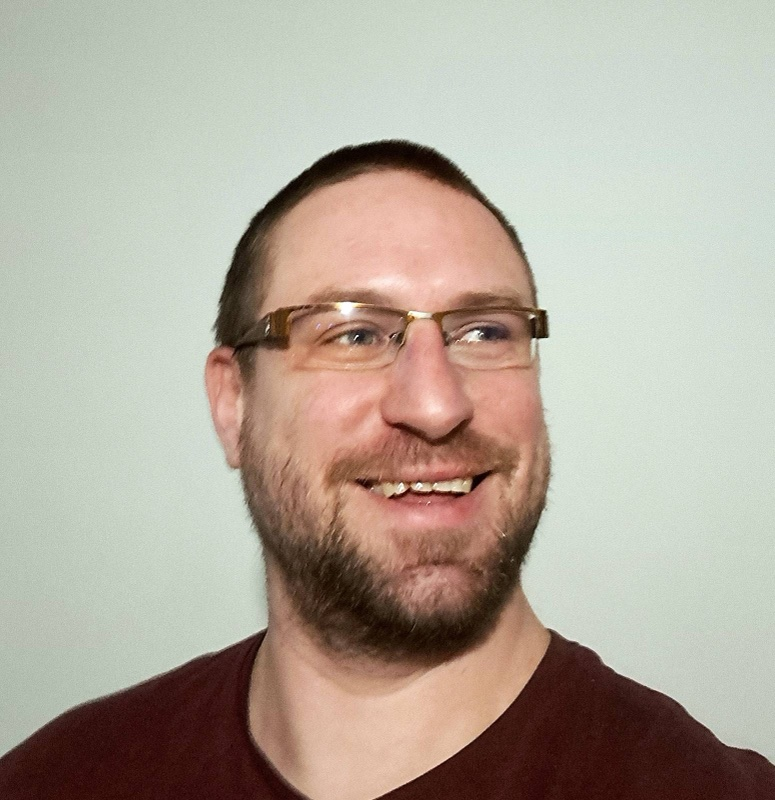
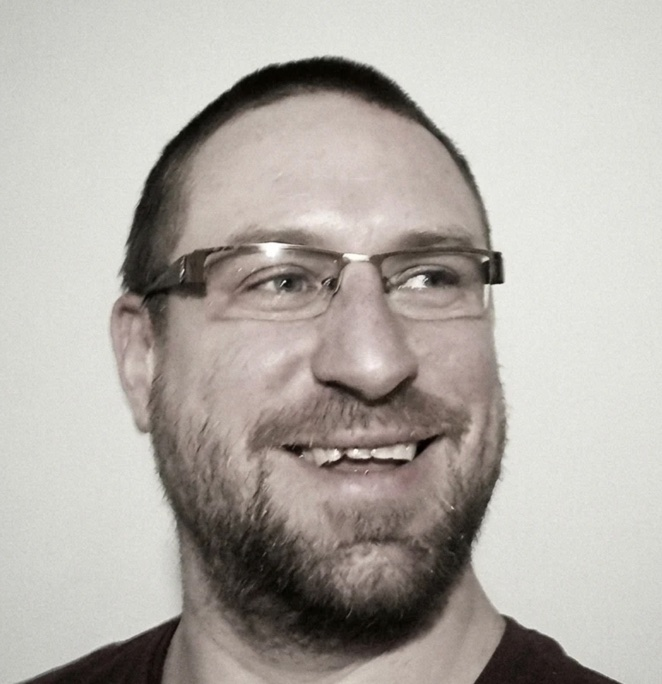
simplify 2027 page styles and update speaker portraits
- replace orange gradient with solid --primary
- add generic font fallbacks, remove unused styles, move inline styles to CSS
- drop "Blok XX" prefixes from section eyebrows, reduce section bottom padding
- update portraits of Kacetl, Kohout, Sýkora

diff --git a/index2027.html b/index2027.html
@@ -27,15 +27,12 @@
             --muted-fg: oklch(0.72 0.03 75);
             --primary: #fe7802; /* = oklch(0.72 0.19 50) oříznuté do sRGB, aby vyšlo stejně i na P3 displejích */
             --primary-fg: oklch(0.14 0.012 55);
-            --primary-glow: #fea92f; /* = oklch(0.8 0.16 70) v sRGB */
             --border: oklch(0.95 0.025 85 / 13%);
 
             --font-display: "Big Shoulders Display", Impact, "Arial Narrow", sans-serif;
             --font-sans: "Schibsted Grotesk", ui-sans-serif, system-ui, sans-serif;
             --font-mono: "JetBrains Mono", ui-monospace, monospace;
 
-            --gradient-orange: linear-gradient(120deg, var(--primary), var(--primary-glow));
-            --shadow-glow: 0 20px 60px -20px color-mix(in oklab, var(--primary) 60%, transparent);
             --container: 80rem;
             --gutter: 1.25rem;
 
@@ -53,7 +50,7 @@
         body {
             background: var(--stout);
             color: var(--foam);
-            font-family: var(--font-sans);
+            font-family: var(--font-sans), sans-serif;
             font-size: 1rem;
             line-height: 1.6;
             -webkit-font-smoothing: antialiased;
@@ -73,7 +70,7 @@
 
         /* --- typografie --- */
         .display {
-            font-family: var(--font-display);
+            font-family: var(--font-display), sans-serif;
             font-weight: 900;
             text-transform: uppercase;
             letter-spacing: -0.01em;
@@ -81,7 +78,7 @@
         }
 
         .eyebrow, .mono {
-            font-family: var(--font-mono);
+            font-family: var(--font-mono), monospace;
             font-size: 0.75rem;
             letter-spacing: 0.18em;
             text-transform: uppercase;
@@ -90,15 +87,7 @@
         .eyebrow { color: var(--primary); }
         .mono { color: var(--muted-fg); }
 
-        .text-gradient {
-            background-image: var(--gradient-orange);
-            -webkit-background-clip: text;
-            background-clip: text;
-            color: transparent;
-        }
-
         .text-primary { color: var(--primary); }
-        .lead { font-size: 1.125rem; color: var(--muted-fg); }
 
         h2.display { font-size: clamp(3rem, 7vw, 4.5rem); margin-top: 1.25rem; }
 
@@ -107,7 +96,7 @@
             display: inline-flex;
             align-items: center;
             gap: 0.5rem;
-            font-family: var(--font-mono);
+            font-family: var(--font-mono), monospace;
             font-size: 0.8rem;
             font-weight: 500;
             letter-spacing: 0.14em;
@@ -121,9 +110,8 @@
         .btn:hover svg { transform: translateX(3px); }
 
         .btn--hero {
-            background-image: var(--gradient-orange);
+            background-color: var(--primary);
             color: var(--primary-fg);
-            box-shadow: var(--shadow-glow);
         }
 
         .btn--hero:hover { transform: translateY(-2px); }
@@ -145,7 +133,7 @@
             border-bottom: 1px solid var(--border);
             padding-block: 0.5rem;
             text-align: center;
-            font-family: var(--font-mono);
+            font-family: var(--font-mono), monospace;
             font-size: 0.68rem;
             letter-spacing: 0.16em;
             text-transform: uppercase;
@@ -181,9 +169,9 @@
             width: 2rem;
             height: 2rem;
             border-radius: 50%;
-            background-image: var(--gradient-orange);
+            background-color: var(--primary);
             color: var(--primary-fg);
-            font-family: var(--font-display);
+            font-family: var(--font-display), sans-serif;
             font-weight: 900;
             font-size: 1.125rem;
         }
@@ -193,7 +181,7 @@
         .site-nav { display: flex; align-items: center; gap: 2rem; }
 
         .site-nav a:not(.btn) {
-            font-family: var(--font-mono);
+            font-family: var(--font-mono), monospace;
             font-size: 0.75rem;
             letter-spacing: 0.16em;
             text-transform: uppercase;
@@ -255,7 +243,7 @@
             .site-nav a:not(.btn) {
                 padding-block: 0.9rem;
                 border-bottom: 1px solid var(--border);
-                font-family: var(--font-display);
+                font-family: var(--font-display), sans-serif;
                 font-weight: 900;
                 font-size: 2.25rem;
                 line-height: 1;
@@ -273,7 +261,6 @@
             isolation: isolate;
             overflow: hidden;
             min-height: calc(100vh - 6rem);
-            min-height: calc(100svh - 6rem);
         }
 
         .hero-img {
@@ -325,10 +312,7 @@
             font-size: 0.5em;
             /*line-height: 0.8;*/
             margin-top: 0.08em;
-            background-image: var(--gradient-orange);
-            -webkit-background-clip: text;
-            background-clip: text;
-            color: transparent;
+            color: var(--primary);
             letter-spacing: 0.02em;
             animation: year-fill 1.4s cubic-bezier(0.2, 0.7, 0.2, 1) 0.9s both;
         }
@@ -341,7 +325,7 @@
             right: 0.04em;
             bottom: -0.14em;
             height: 0.06em;
-            background-image: var(--gradient-orange);
+            background-color: var(--primary);
             transform-origin: left;
             animation: year-line 0.9s cubic-bezier(0.2, 0.7, 0.2, 1) 1.2s both;
         }
@@ -429,7 +413,8 @@
         }
 
         /* --- sekce --- */
-        .section { padding-block: 6rem; }
+        .section { padding-block: 3rem 3rem; }
+        .section--flush { padding-top: 0; }
 
         .section-head {
             display: flex;
@@ -437,40 +422,6 @@
             align-items: flex-end;
             justify-content: space-between;
             gap: 1.5rem;
-        }
-
-        /* --- pilíře --- */
-        .pillars-wrap {
-            border-block: 1px solid var(--border);
-            background: var(--card);
-        }
-
-        .pillars {
-            max-width: var(--container);
-            margin-inline: auto;
-            display: grid;
-        }
-
-        .pillar {
-            padding: 2rem;
-            border-bottom: 1px solid var(--border);
-        }
-
-        .pillar svg {
-            width: 1.75rem;
-            height: 1.75rem;
-            color: var(--primary);
-            transition: transform 0.3s ease;
-        }
-
-        .pillar:hover svg { transform: translateY(-4px); }
-        .pillar h3 { margin-top: 1.5rem; font-size: 1.875rem; }
-        .pillar p { margin-top: 0.75rem; font-size: 0.875rem; color: var(--muted-fg); }
-
-        @media (min-width: 768px) {
-            .pillars { grid-template-columns: repeat(4, 1fr); }
-            .pillar { border-bottom: none; border-right: 1px solid var(--border); }
-            .pillar:last-child { border-right: none; }
         }
 
         /* --- mřížka karet (program, archiv) --- */
@@ -510,35 +461,13 @@
         .tile:hover .tile-visual img { filter: none; transform: scale(1.04); }
         .tile-visual--banner { background: #1b1a17; }
         .tile-visual--banner img { object-fit: contain; filter: none; }
-        .tile:hover .tile-visual--mark { background-image: var(--gradient-orange); color: var(--primary-fg); }
+        .tile-visual--centered img { object-position: center center; }
+        .tile-visual--archive-2025 { background: #030201; }
+        .tile-visual--archive-2025 img { width: 70%; height: 70%; }
 
         .tile h3 { margin-top: 1.25rem; font-size: 1.5rem; }
         .tile .mono { font-size: 0.7rem; letter-spacing: 0.14em; }
         .tile p:not(.mono) { margin-top: 0.75rem; font-size: 0.875rem; color: var(--muted-fg); }
-        .tile .quote { color: var(--primary); }
-
-        /* --- novinky --- */
-        .news {
-            margin-top: 3rem;
-            border-top: 1px solid var(--border);
-        }
-
-        .news article {
-            display: grid;
-            gap: 0.75rem;
-            padding-block: 2rem;
-            border-bottom: 1px solid var(--border);
-        }
-
-        .news h3 { font-size: clamp(1.75rem, 3.5vw, 2.5rem); }
-        .news p { max-width: 42rem; color: var(--muted-fg); }
-        .news p a { color: var(--primary); border-bottom: 1px solid color-mix(in oklab, var(--primary) 40%, transparent); }
-
-        @media (min-width: 768px) {
-            .news article { grid-template-columns: 14rem 1fr; column-gap: 2rem; }
-            .news time { padding-top: 0.6rem; }
-            .news article > div { display: grid; gap: 0.75rem; }
-        }
 
         /* --- kdy / kde / sponzor --- */
         .info {
@@ -555,7 +484,7 @@
         .info dd strong {
             display: block;
             margin-bottom: 0.5rem;
-            font-family: var(--font-display);
+            font-family: var(--font-display), sans-serif;
             font-weight: 900;
             text-transform: uppercase;
             font-size: clamp(2rem, 3.5vw, 2.75rem);
@@ -667,7 +596,6 @@
                 <svg class="icon-close" viewBox="0 0 24 24" fill="none" stroke="currentColor" stroke-width="2" stroke-linecap="round" aria-hidden="true"><path d="M6 6l12 12M18 6 6 18"/></svg>
             </button>
             <nav class="site-nav" id="site-nav" aria-label="Hlavní navigace">
-                <a href="#novinky">Novinky</a>
                 <a href="#program">Program</a>
                 <a href="#misto">Místo a čas</a>
                 <a href="#archiv">Archiv</a>
@@ -683,7 +611,7 @@
             <p class="eyebrow rise"><time datetime="2027-02-06">Sobota 6. 2. 2027</time> · Plzeň</p>
             <h1 class="display rise rise-2" aria-label="Orange Pillsen 2027">
                 <span class="h1-line">Orange <span class="h1-year" aria-hidden="true">2027</span></span>
-                <span class="text-gradient" aria-hidden="true">Pillsen</span>
+                <span class="text-primary" aria-hidden="true">Pillsen</span>
             </h1>
             <div class="hero-bottom">
                 <div class="hero-intro rise rise-3">
@@ -724,7 +652,7 @@
 
         <!-- KDY / KDE / SPONZOR -->
         <section id="misto" class="section container">
-            <p class="eyebrow">Blok 01 — Kdy a kde</p>
+            <p class="eyebrow">Kdy a kde</p>
             <dl class="info">
                 <div>
                     <dt class="mono">Kdy</dt>
@@ -751,56 +679,11 @@
             </dl>
         </section>
 
-        <!--        &lt;!&ndash; PILÍŘE &ndash;&gt;-->
-<!--        <section class="pillars-wrap" aria-label="Témata konference">-->
-<!--            <div class="pillars">-->
-<!--                <div class="pillar">-->
-<!--                    <svg viewBox="0 0 24 24" fill="none" stroke="currentColor" stroke-width="2" stroke-linecap="round" stroke-linejoin="round" aria-hidden="true"><path d="M3 22h18M6 18v-7M10 18v-7M14 18v-7M18 18v-7M12 2l8 5H4z"/></svg>-->
-<!--                    <h3 class="display">Zdravé peníze</h3>-->
-<!--                    <p>Historie peněz a ekonomie &ndash; od českých tolarů po timechain.</p>-->
-<!--                </div>-->
-<!--                <div class="pillar">-->
-<!--                    <svg viewBox="0 0 24 24" fill="none" stroke="currentColor" stroke-width="2" stroke-linecap="round" stroke-linejoin="round" aria-hidden="true"><rect x="4" y="4" width="16" height="16" rx="2"/><rect x="9" y="9" width="6" height="6"/><path d="M15 2v2M15 20v2M2 15h2M2 9h2M20 15h2M20 9h2M9 2v2M9 20v2"/></svg>-->
-<!--                    <h3 class="display">Technologie</h3>-->
-<!--                    <p>Lightning, soukromí, peněženky a těžba &ndash; jak to celé funguje pod kapotou.</p>-->
-<!--                </div>-->
-<!--                <div class="pillar">-->
-<!--                    <svg viewBox="0 0 24 24" fill="none" stroke="currentColor" stroke-width="2" stroke-linecap="round" stroke-linejoin="round" aria-hidden="true"><path d="M13 2 3 14h9l-1 8 10-12h-9z"/></svg>-->
-<!--                    <h3 class="display">Suverenita</h3>-->
-<!--                    <p>Self-custody, vlastní node a svoboda platit bez dovolení.</p>-->
-<!--                </div>-->
-<!--                <div class="pillar">-->
-<!--                    <svg viewBox="0 0 24 24" fill="none" stroke="currentColor" stroke-width="2" stroke-linecap="round" stroke-linejoin="round" aria-hidden="true"><path d="M17 11h1a3 3 0 0 1 0 6h-1M9 12v6M13 12v6M14 7.5c-1 0-1.44.5-3 .5s-2-.5-3-.5-1.72.5-2.5.5a2.5 2.5 0 0 1 0-5c.78 0 1.57.5 2.5.5S9.44 2 11 2s2 1.5 3 1.5 1.72-.5 2.5-.5a2.5 2.5 0 0 1 0 5c-.78 0-1.5-.5-2.5-.5zM5 8v12a2 2 0 0 0 2 2h8a2 2 0 0 0 2-2V8"/></svg>-->
-<!--                    <h3 class="display">Komunita</h3>-->
-<!--                    <p>Rodiště plzeňského ležáku. Po přednáškách se debatuje u piva.</p>-->
-<!--                </div>-->
-<!--            </div>-->
-<!--        </section>-->
-
-        <!-- NOVINKY (nejnovější nahoru) -->
-<!--        <section id="novinky" class="section container">-->
-<!--            <p class="eyebrow">Blok 02 — Novinky</p>-->
-<!--            <h2 class="display">Co je nového</h2>-->
-
-<!--            <div class="news">-->
-<!--                <article>-->
-<!--                    <time class="mono" datetime="2026-11-17">17. listopadu 2026</time>-->
-<!--                    <div>-->
-<!--                        <h3 class="display">Připravujeme Orange Pillsen 2027</h3>-->
-<!--                        <p>Po úspěšném ročníku 2026 chystáme další setkání &ndash; v sobotu 6. února 2027.-->
-<!--                            Program budeme postupně zveřejňovat zde na webu. Mezitím si můžete pustit-->
-<!--                            záznamy loňských přednášek na našem-->
-<!--                            <a href="https://www.youtube.com/@OrangePillsen" target="_blank" rel="noopener">YouTube kanálu</a>.</p>-->
-<!--                    </div>-->
-<!--                </article>-->
-<!--            </div>-->
-<!--        </section>-->
-
         <!-- PROGRAM -->
-        <section id="program" class="section container" style="padding-top: 0;">
+        <section id="program" class="section section--flush container">
             <div class="section-head">
                 <div>
-                    <p class="eyebrow">Blok 03 — Program</p>
+                    <p class="eyebrow">Program</p>
                     <h2 class="display">Na pódiu</h2>
                 </div>
             </div>
@@ -827,7 +710,7 @@
                     <p class="mono">Programátor a bitcoinový nadšenec</p>
                 </div>
                 <div class="tile">
-                    <div class="tile-visual"><img src="2027/michal_sykora.jpg" alt="Michal Sýkora" loading="lazy" style="object-position: center center;"></div>
+                    <div class="tile-visual tile-visual--centered"><img src="2027/michal_sykora.jpg" alt="Michal Sýkora" loading="lazy"></div>
                     <h3 class="display">Michal Sýkora</h3>
                     <p class="mono">Lídr plzeňské jednadvacítky</p>
                 </div>
@@ -838,7 +721,7 @@
         <section id="sponzor" class="sponsor-wrap">
             <div class="container sponsor-grid">
                 <div>
-                    <p class="eyebrow">Blok 04 — Sponzor</p>
+                    <p class="eyebrow">Sponzor</p>
                     <h2 class="display">Děkujeme <span class="text-primary">partnerovi</span></h2>
                 </div>
                 <a href="https://www.galosoft.cz/cs/crypto" target="_blank" rel="noopener" class="sponsor">
@@ -856,7 +739,7 @@
         <section id="archiv" class="section container">
             <div class="section-head">
                 <div>
-                    <p class="eyebrow">Blok 05 — Archiv</p>
+                    <p class="eyebrow">Archiv</p>
                     <h2 class="display">Předchozí ročníky</h2>
                 </div>
                 <a href="https://www.youtube.com/@OrangePillsen" target="_blank" rel="noopener" class="btn btn--frame">YouTube @OrangePillsen
@@ -878,7 +761,7 @@
                     <p>Fotky a slidy z přednášek.</p>
                 </a>
                 <a href="2025/OrangePilsen2025.html" class="tile">
-                    <div class="tile-visual tile-visual--banner" style="background: #030201;"><img src="2027/archiv_2025.jpg" alt="Orange Pillsen 2025" loading="lazy" style="width: 70%; height: 70%;"></div>
+                    <div class="tile-visual tile-visual--banner tile-visual--archive-2025"><img src="2027/archiv_2025.jpg" alt="Orange Pillsen 2025" loading="lazy"></div>
                     <h3 class="display">Orange Pillsen 2025</h3>
                     <p class="mono">Web ročníku</p>
                     <p>Ohlédnutí za ročníkem 2025.</p>
